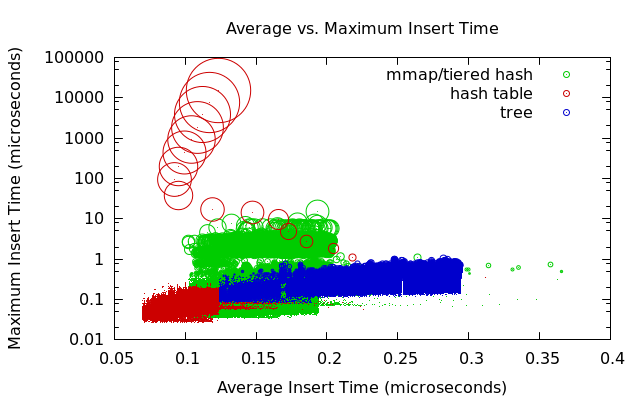
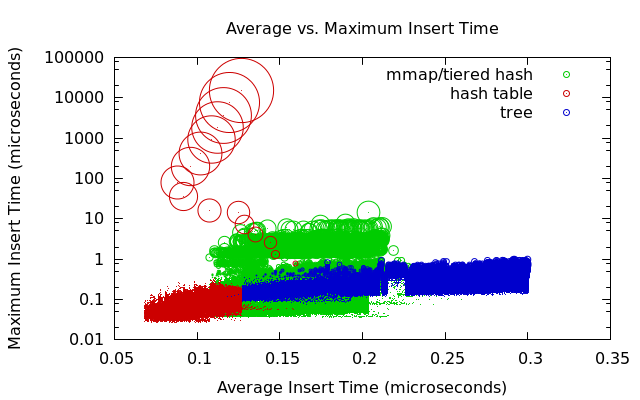
larger cutoff for mmap size

diff --git a/src/lazy-linear.cc b/src/lazy-linear.cc
@@ -378,7 +378,7 @@ struct ImplicitBitArray {
   }
 };
 
-const size_t ImplicitBitArray::page_size = sysconf(_SC_PAGE_SIZE);//static_cast<size_t>(-1);
+const size_t ImplicitBitArray::page_size = 100000/8;//sysconf(_SC_PAGE_SIZE);//static_cast<size_t>(-1);
 
 template<typename T>
 struct BasicArray {
